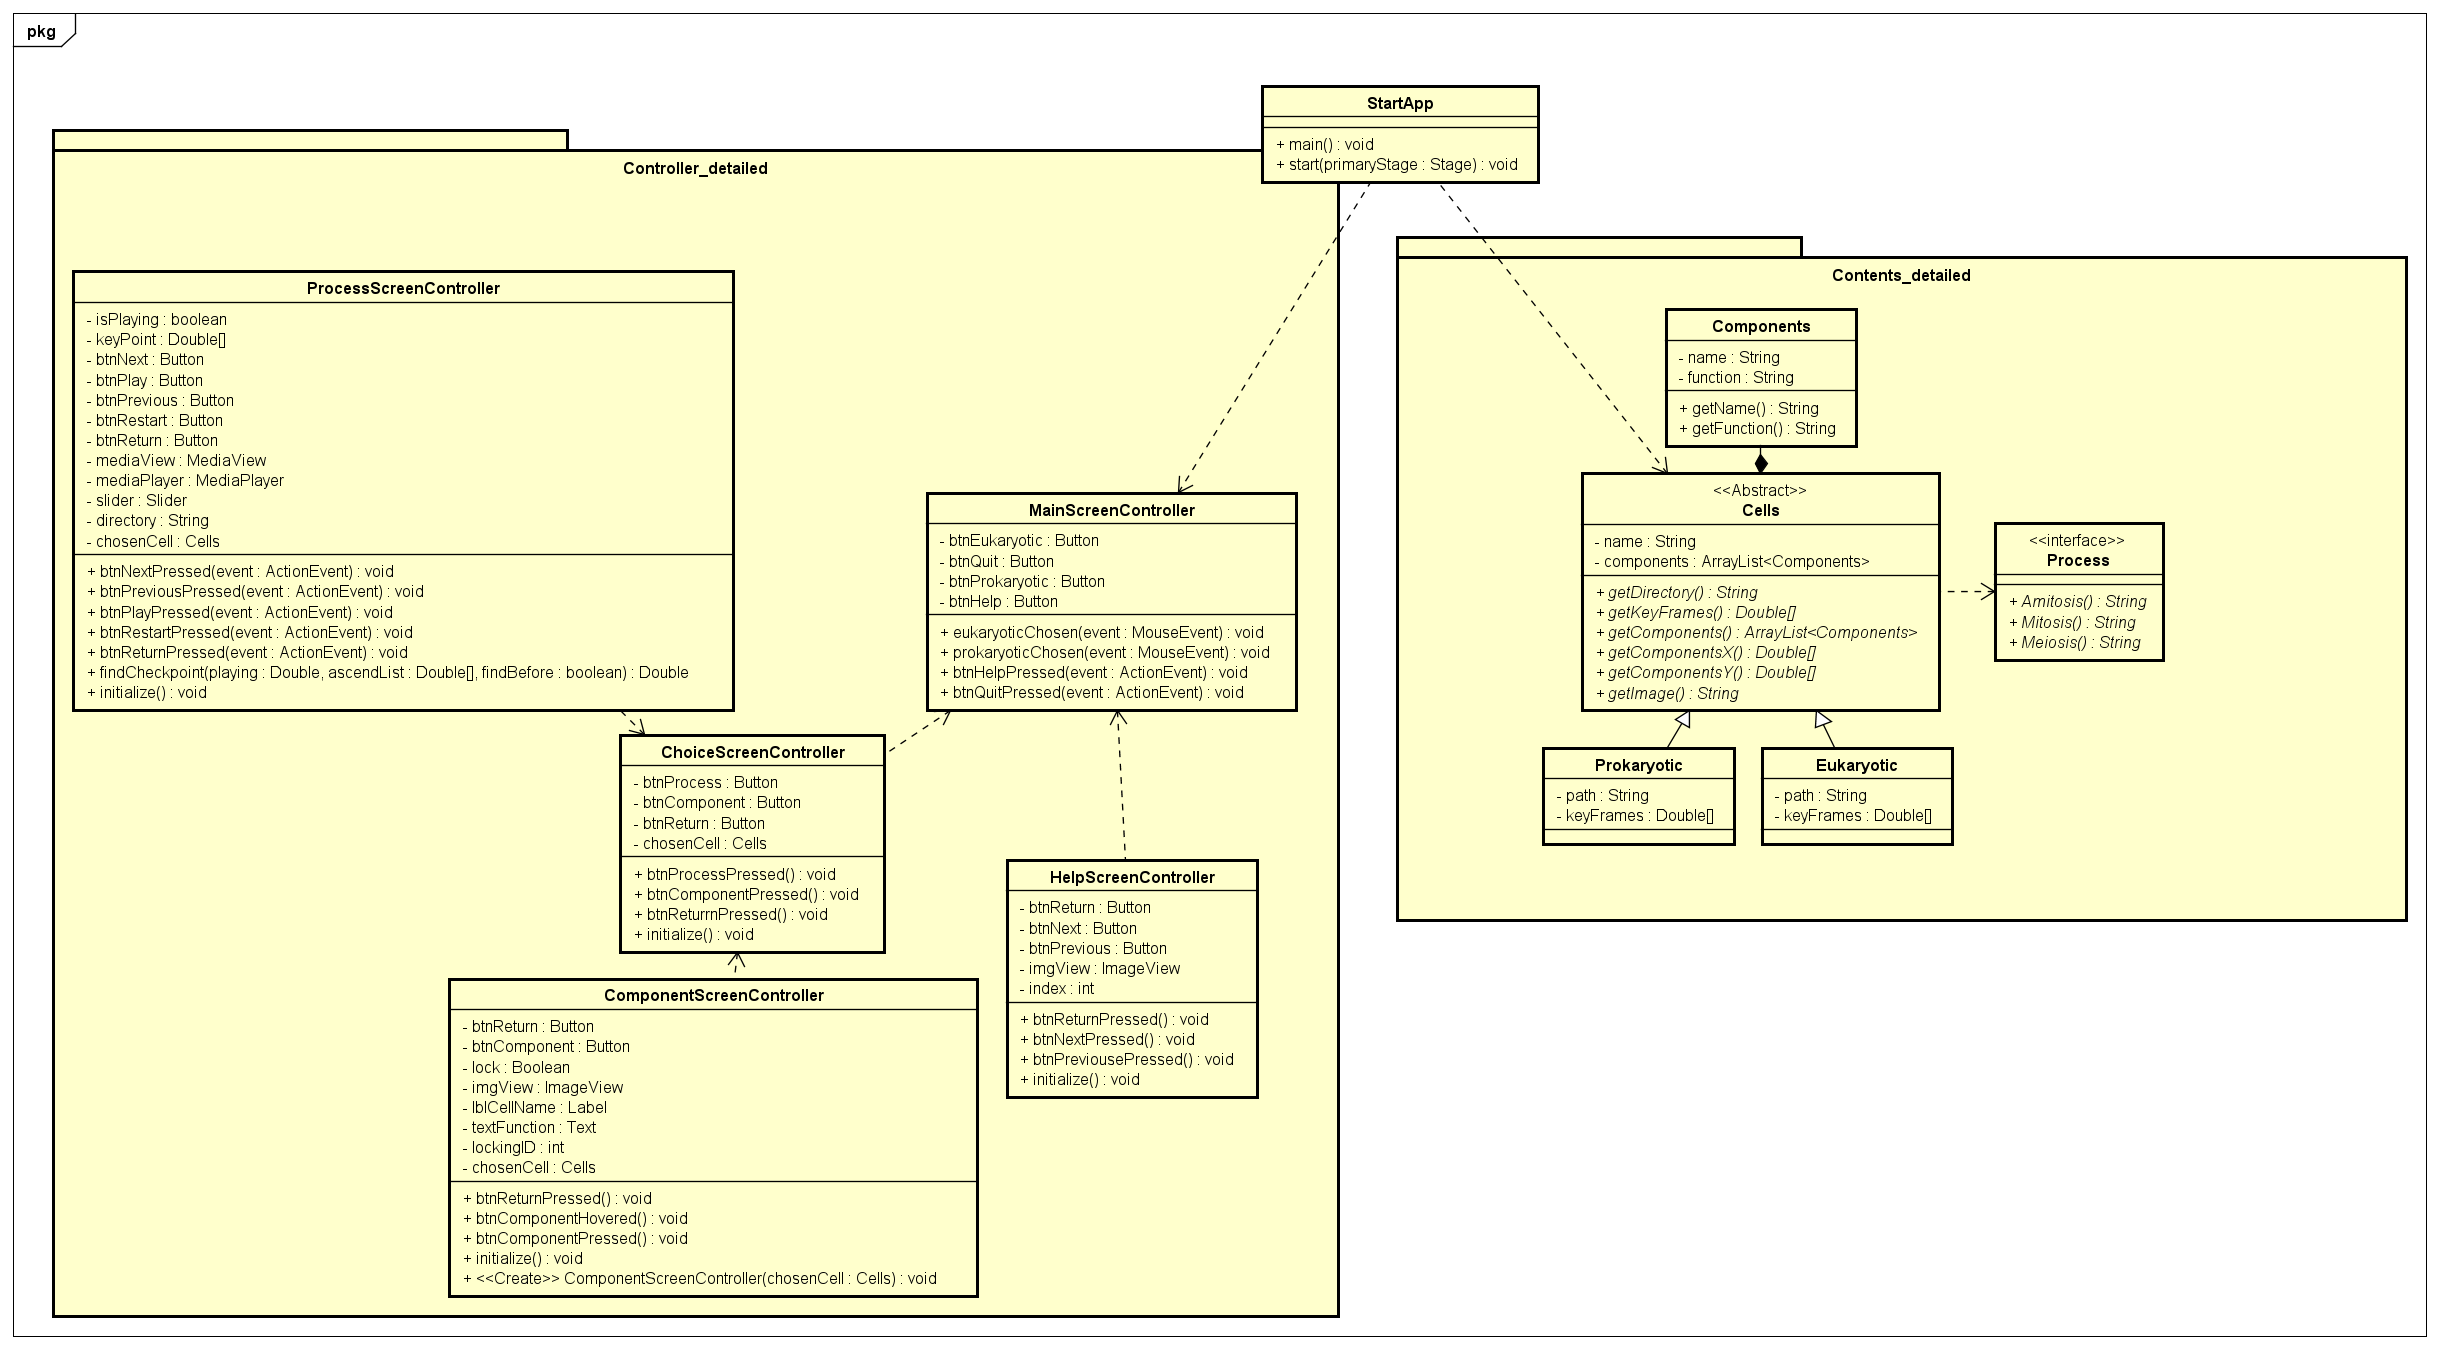
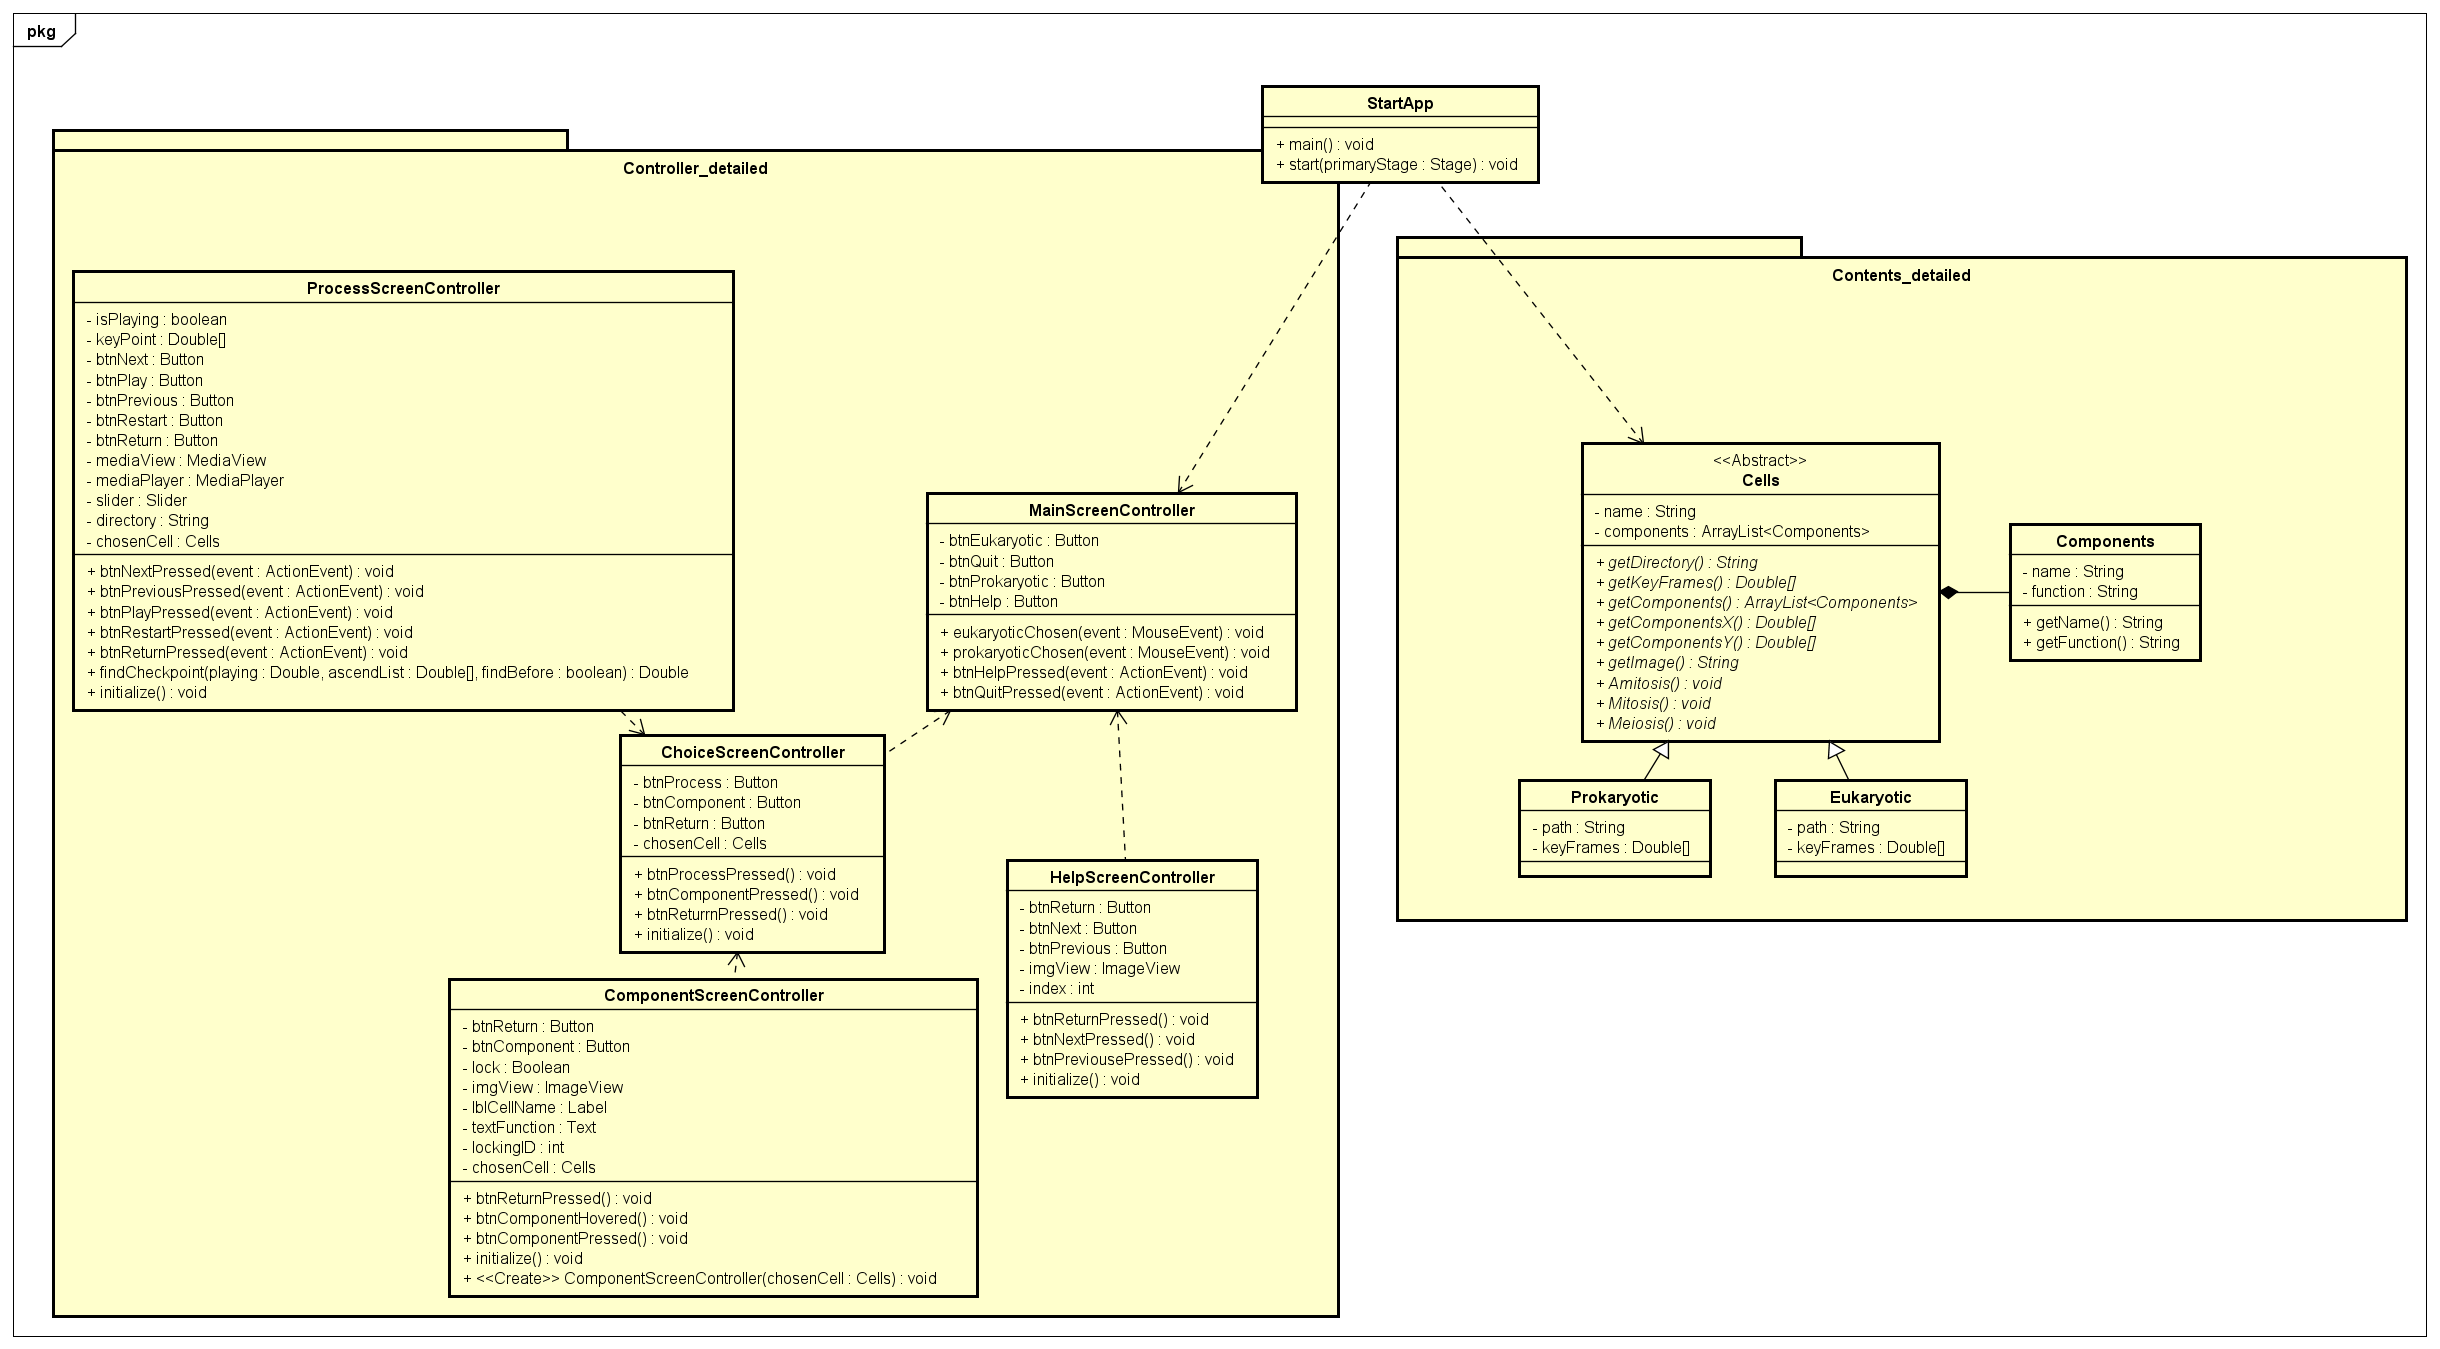
Revamp some designs

Changed region(s): [[0.623, 0.2179, 0.8098, 0.6538], [0.8098, 0.3736, 0.9033, 0.4981]]

diff --git a/SourceCode/src/cell_division/content/Cells.java b/SourceCode/src/cell_division/content/Cells.java
@@ -2,7 +2,7 @@ package cell_division.content;
 
 import java.util.ArrayList;
 
-public abstract class Cells implements Process{
+public abstract class Cells{
 	private String cellName;
 	private ArrayList<Components> components;
 	public abstract String getDirectory();
@@ -11,4 +11,7 @@ public abstract class Cells implements Process{
 	public abstract Double[] getComponentsX();
 	public abstract Double[] getComponentsY();
 	public abstract String getImage();
+	public abstract void Amitosis();
+	public abstract void Meiosis();
+	public abstract void Mitosis();
 }
